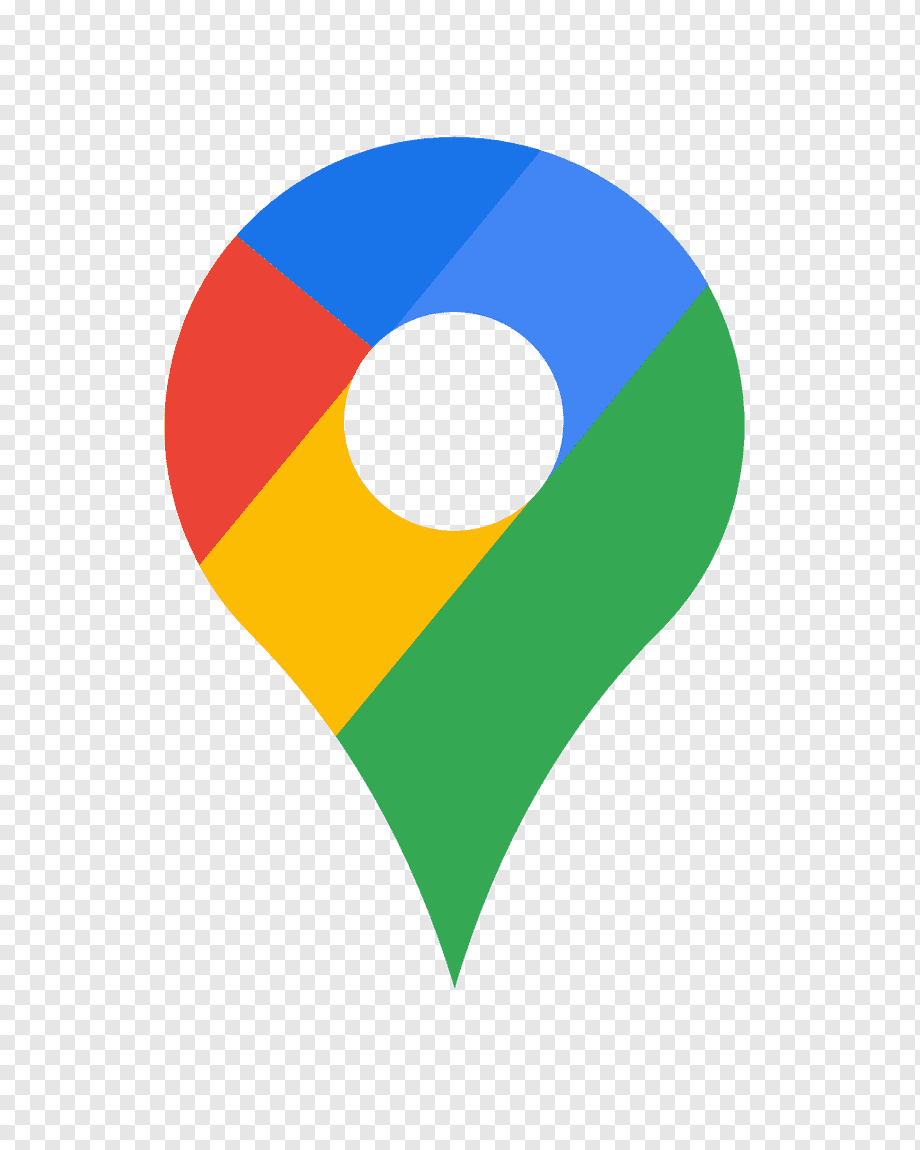
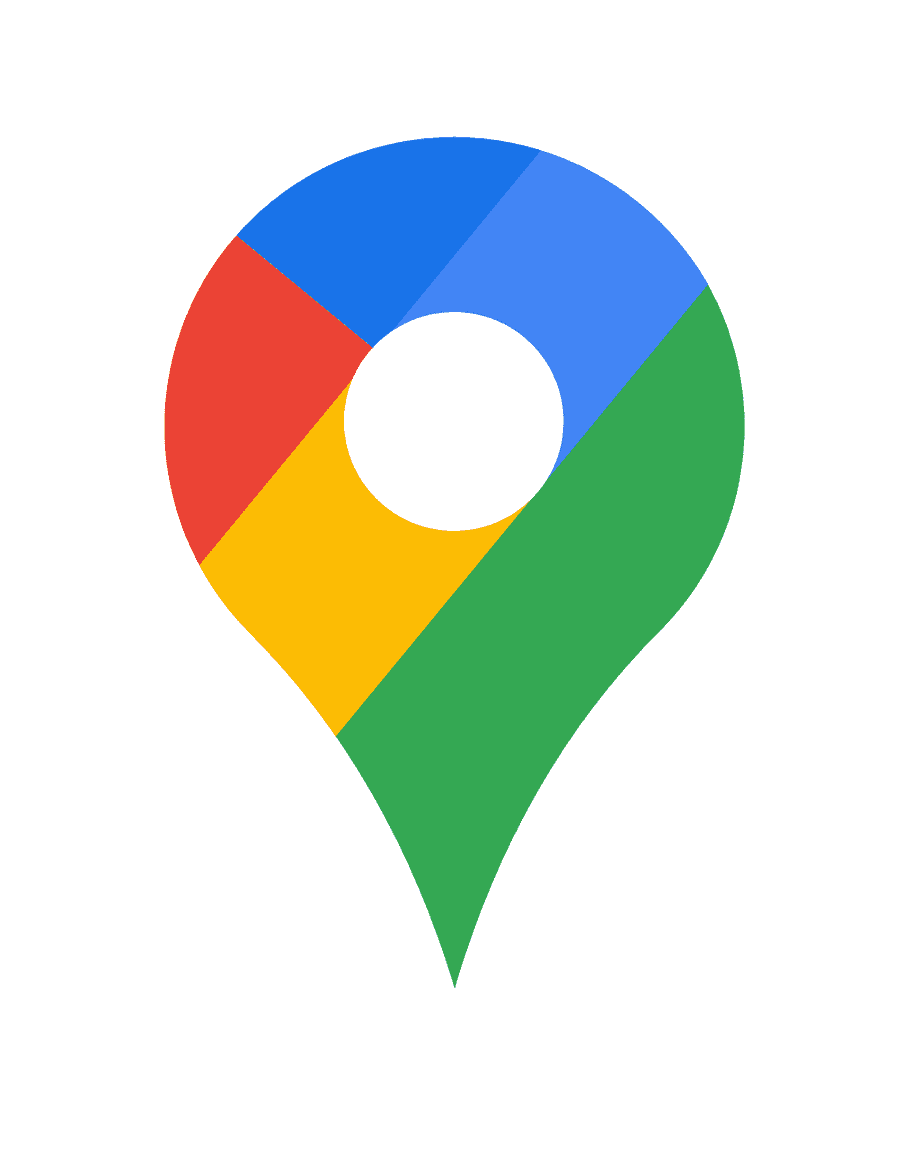
fix: remover fundo do icone Google Maps

diff --git a/rm_bg.py b/rm_bg.py
@@ -1,0 +1,7 @@
+from PIL import Image
+img = Image.open(r'public\icone-google-maps.webp.png').convert('RGBA')
+pixels = list(img.getdata())
+new = [(r,g,b,0) if r>220 and g>220 and b>220 else (r,g,b,a) for r,g,b,a in pixels]
+img.putdata(new)
+img.save(r'public\icone-google-maps.webp.png','PNG')
+print('OK')
